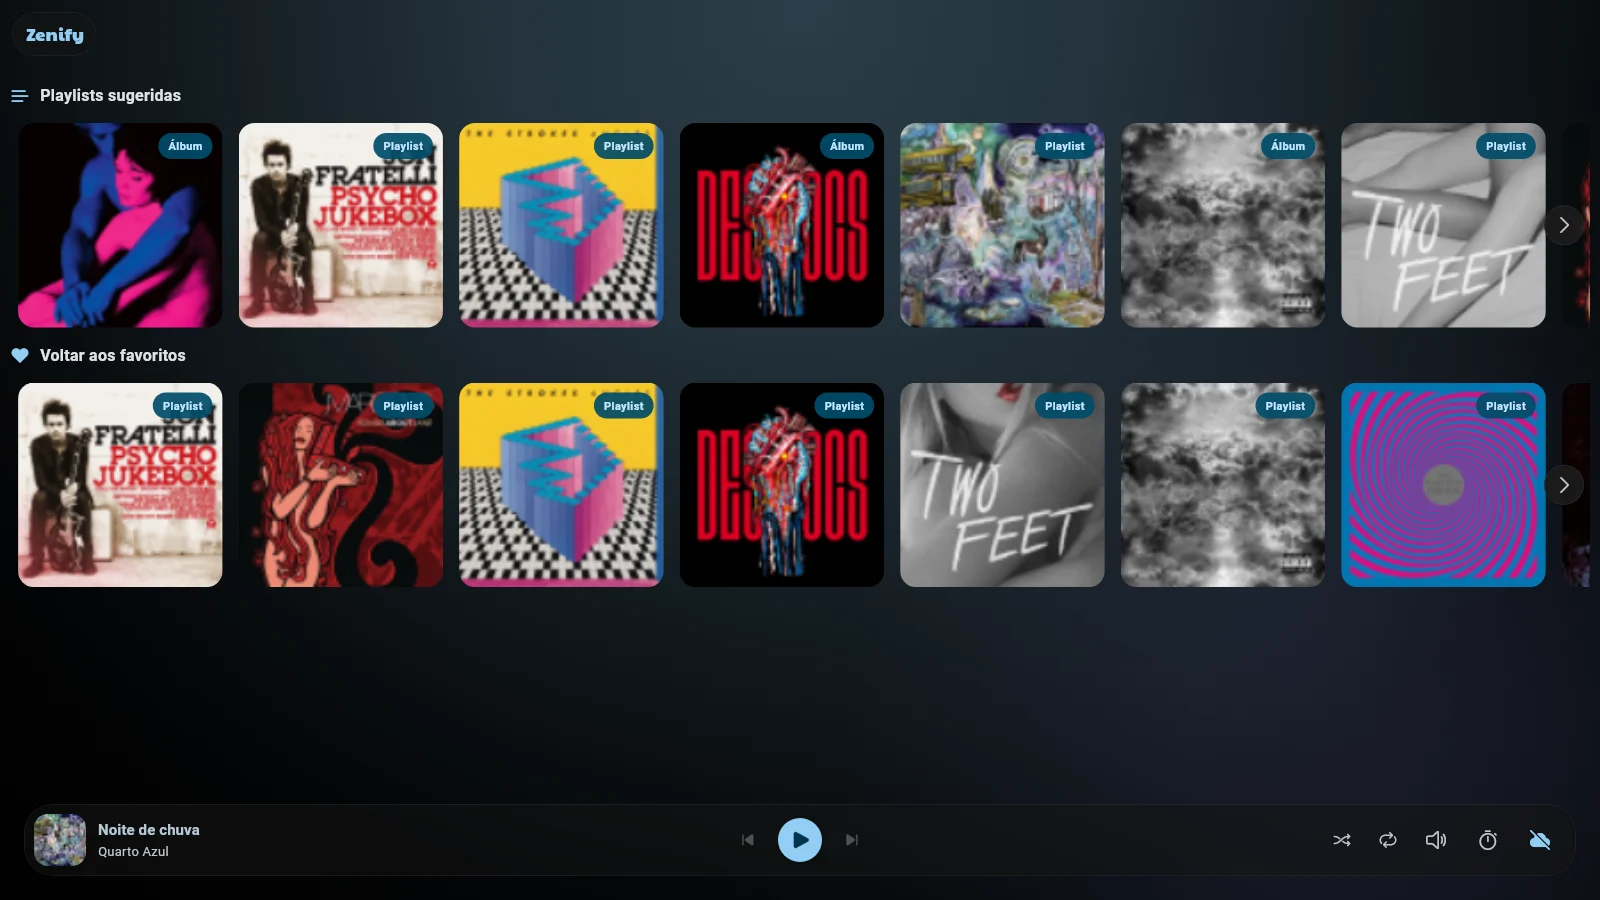
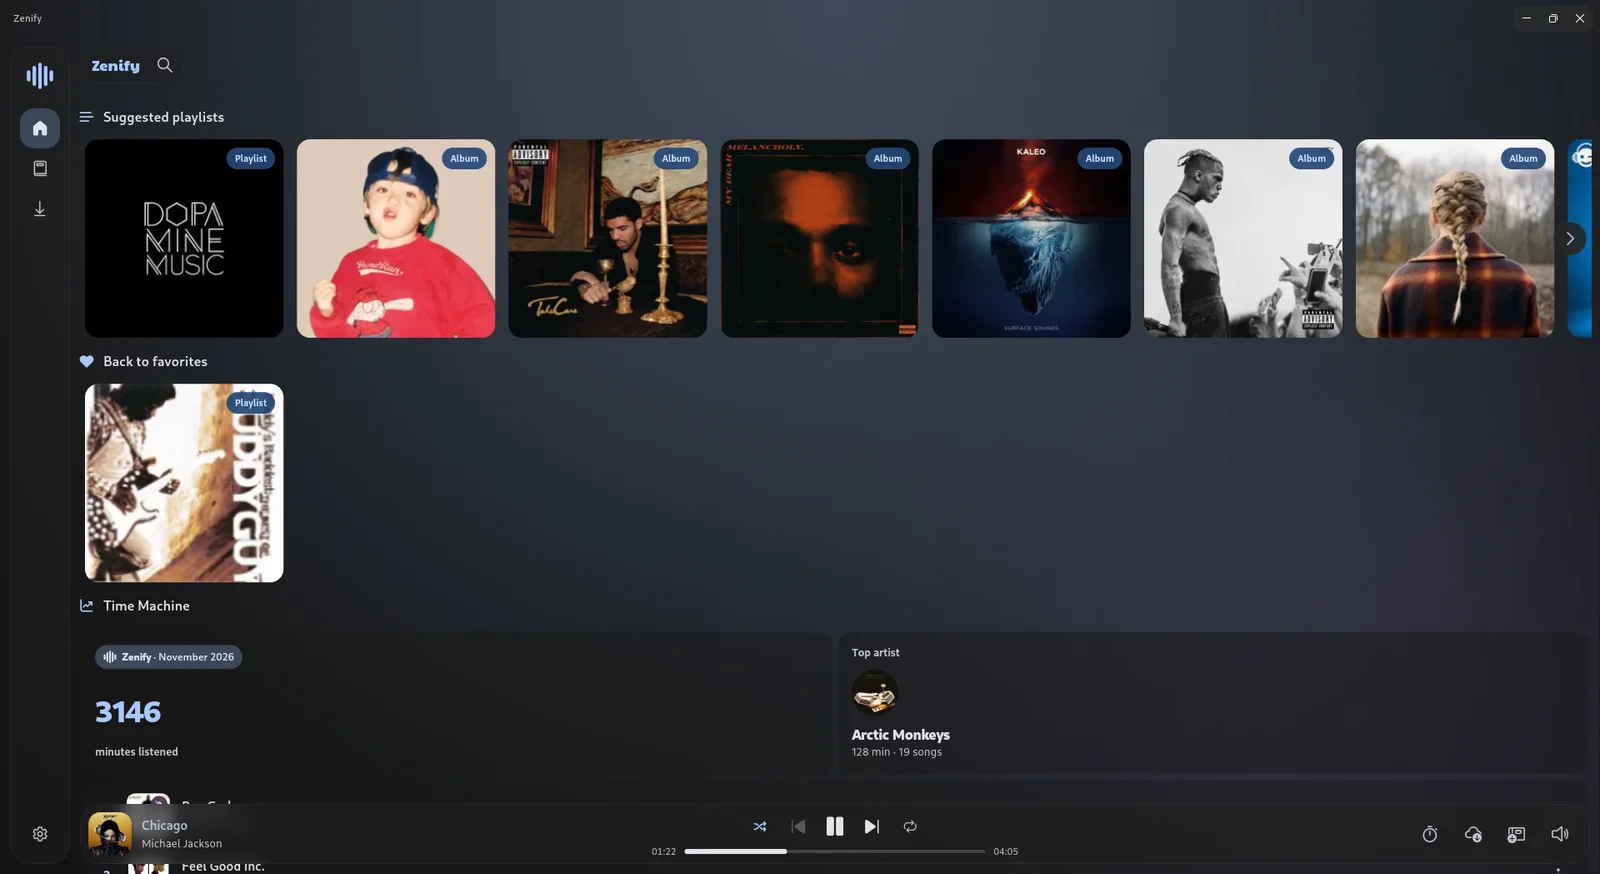
Update Zenify screenshots and version, add Local Sync to the contributions

diff --git a/src/content.ts b/src/content.ts
@@ -34,20 +34,17 @@ export const profile = {
 export const zenify = {
   repo: "https://github.com/elias001011/Zenify",
   download: "https://github.com/elias001011/Zenify/releases/latest",
-  fallbackVersion: "v0.2.5",
+  fallbackVersion: "v0.3.0",
   desktop: {
     home: shot("zenify", "desktop-home"),
-    moods: shot("zenify", "desktop-moods"),
     player: shot("zenify", "desktop-player-lyrics"),
-    playlist: shot("zenify", "desktop-playlist"),
+    sync: shot("zenify", "desktop-local-sync"),
     library: shot("zenify", "desktop-library"),
   },
   mobile: [
-    { key: "home", src: shot("zenify", "mobile-home") },
-    { key: "moods", src: shot("zenify", "mobile-moods") },
-    { key: "library", src: shot("zenify", "mobile-library") },
-    { key: "playlist", src: shot("zenify", "mobile-playlist") },
-    { key: "player", src: shot("zenify", "mobile-player") },
+    { key: "playlist", src: shot("zenify", "narrow-playlist") },
+    { key: "player", src: shot("zenify", "narrow-player") },
+    { key: "lyrics", src: shot("zenify", "narrow-lyrics") },
   ],
 };
 
@@ -183,7 +180,7 @@ const pt = {
     showcaseAlt: "Tela inicial do Zenify no desktop Linux, com playlists sugeridas e favoritos",
     shotAlts: {
       player: "Player do Zenify no desktop, com letras sincronizadas ao lado da capa",
-      moods: "Moods do Zenify no desktop: humores para escolher e playlists feitas para você",
+      sync: "Local Sync do Zenify no desktop: o que sincronizar e os aparelhos pareados na mesma rede",
     },
     originTitle: "De contribuidor a criador.",
     origin: [
@@ -230,13 +227,11 @@ const pt = {
         text: "Escala da interface, barra de título nas cores do app, atalhos remapeáveis e pasta de downloads.",
       },
     ],
-    phonesTitle: "No celular, o mesmo app.",
+    phonesTitle: "Do desktop ao celular, o mesmo player.",
     phones: {
-      home: "Início",
-      moods: "Moods",
-      library: "Biblioteca",
       playlist: "Playlist",
       player: "Player",
+      lyrics: "Letras",
     } as Record<string, string>,
     marquee: ["Moods", "Mix pessoal", "Local Sync", "Letras sincronizadas", "Ondas sonoras", "Fundo dinâmico", "Gerenciador de downloads", "Atalhos remapeáveis", "Time Machine", "Rádios"],
     nowPlaying: "Tocando agora",
@@ -262,6 +257,7 @@ const pt = {
       "Controles de mídia nativos no Windows e no Linux",
       "Retomada de mídia no Android",
       "Acessibilidade e tradução pt-BR",
+      "Local Sync: sincronização entre aparelhos pela rede local (criado no Zenify)",
     ],
     feed: "Commits recentes",
     loading: "Carregando atividade recente...",
@@ -345,7 +341,7 @@ const en: Copy = {
     showcaseAlt: "Zenify home screen on desktop Linux, with suggested playlists and favourites",
     shotAlts: {
       player: "Zenify player on desktop, with synced lyrics beside the cover",
-      moods: "Zenify moods on desktop: moods to pick from and playlists made for you",
+      sync: "Zenify Local Sync on desktop: what to sync and the devices paired on the same network",
     },
     originTitle: "From contributor to creator.",
     origin: [
@@ -392,13 +388,11 @@ const en: Copy = {
         text: "Interface scale, a title bar in the app's colours, remappable shortcuts and a downloads folder.",
       },
     ],
-    phonesTitle: "On a phone, the same app.",
+    phonesTitle: "From desktop to phone, the same player.",
     phones: {
-      home: "Home",
-      moods: "Moods",
-      library: "Library",
       playlist: "Playlist",
       player: "Player",
+      lyrics: "Lyrics",
     },
     marquee: ["Moods", "Personal Mix", "Local Sync", "Synced lyrics", "Sound waves", "Dynamic background", "Download manager", "Remappable shortcuts", "Time Machine", "Radios"],
     nowPlaying: "Now playing",
@@ -424,6 +418,7 @@ const en: Copy = {
       "Native media controls on Windows and Linux",
       "Android media resumption",
       "Accessibility and pt-BR translation",
+      "Local Sync: syncing between devices over the local network (created in Zenify)",
     ],
     feed: "Recent commits",
     loading: "Loading recent activity...",
@@ -505,7 +500,7 @@ const es: Copy = {
     showcaseAlt: "Pantalla de inicio de Zenify en escritorio Linux, con playlists sugeridas y favoritos",
     shotAlts: {
       player: "Reproductor de Zenify en escritorio, con letras sincronizadas junto a la portada",
-      moods: "Moods de Zenify en escritorio: estados de ánimo para elegir y playlists hechas para ti",
+      sync: "Local Sync de Zenify en escritorio: qué sincronizar y los dispositivos emparejados en la misma red",
     },
     originTitle: "De colaborador a creador.",
     origin: [
@@ -552,13 +547,11 @@ const es: Copy = {
         text: "Escala de la interfaz, barra de título en los colores de la app, atajos configurables y carpeta de descargas.",
       },
     ],
-    phonesTitle: "En el celular, la misma app.",
+    phonesTitle: "Del escritorio al celular, el mismo reproductor.",
     phones: {
-      home: "Inicio",
-      moods: "Moods",
-      library: "Biblioteca",
       playlist: "Playlist",
       player: "Reproductor",
+      lyrics: "Letras",
     },
     marquee: ["Moods", "Mix personal", "Local Sync", "Letras sincronizadas", "Ondas sonoras", "Fondo dinámico", "Gestor de descargas", "Atajos configurables", "Time Machine", "Radios"],
     nowPlaying: "Sonando ahora",
@@ -584,6 +577,7 @@ const es: Copy = {
       "Controles multimedia nativos en Windows y Linux",
       "Reanudación multimedia en Android",
       "Accesibilidad y traducción pt-BR",
+      "Local Sync: sincronización entre dispositivos por la red local (creado en Zenify)",
     ],
     feed: "Commits recientes",
     loading: "Cargando actividad reciente...",

diff --git a/src/App.tsx b/src/App.tsx
@@ -90,7 +90,7 @@ type LiveStats = {
 };
 
 const navIcons: LucideIcon[] = [House, Building2, AudioLines, LayoutGrid, Mail];
-const highlightIcons: LucideIcon[] = [History, MicVocal, PictureInPicture2, ListMusic, MonitorSmartphone, RotateCcw, Accessibility];
+const highlightIcons: LucideIcon[] = [History, MicVocal, PictureInPicture2, ListMusic, MonitorSmartphone, RotateCcw, Accessibility, Wifi];
 const featureIcons: LucideIcon[] = [Sparkles, AudioLines, Disc3, Wifi, Download, Keyboard];
 const techMarquee = ["Flutter", "Dart", "React", "TypeScript", "Node.js", "Netlify Functions", "Firebase", "Android", "Linux", "Windows", "GitHub Actions", "Python", "media_kit", "Vite"];
 
@@ -780,14 +780,14 @@ function ZenifySection({ copy, stats }: { copy: Copy; stats: LiveStats }) {
             <img src={zenify.desktop.home} alt={zen.showcaseAlt} loading="lazy" decoding="async" />
           </div>
           <div className="zen-phone phone-left">
-            <img src={zenify.mobile[4].src} alt="" loading="lazy" decoding="async" />
+            <img src={zenify.mobile[1].src} alt="" loading="lazy" decoding="async" />
           </div>
           <div className="zen-phone phone-right">
-            <img src={zenify.mobile[1].src} alt="" loading="lazy" decoding="async" />
+            <img src={zenify.mobile[2].src} alt="" loading="lazy" decoding="async" />
           </div>
           <div className="now-playing mono" aria-hidden="true">
             <span className="now-playing-cover">
-              <img src={zenify.mobile[4].src} alt="" loading="lazy" decoding="async" />
+              <img src={zenify.mobile[1].src} alt="" loading="lazy" decoding="async" />
             </span>
             <span className="now-playing-body">
               <span className="now-playing-label">{zen.nowPlaying}</span>
@@ -854,7 +854,7 @@ function ZenifySection({ copy, stats }: { copy: Copy; stats: LiveStats }) {
             <img src={zenify.desktop.player} alt={zen.shotAlts.player} loading="lazy" decoding="async" />
           </figure>
           <figure className="zen-shot" data-reveal style={{ "--i": 1 } as CSSProperties}>
-            <img src={zenify.desktop.moods} alt={zen.shotAlts.moods} loading="lazy" decoding="async" />
+            <img src={zenify.desktop.sync} alt={zen.shotAlts.sync} loading="lazy" decoding="async" />
           </figure>
         </div>
       </div>
